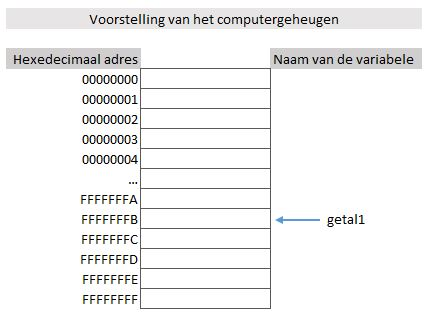
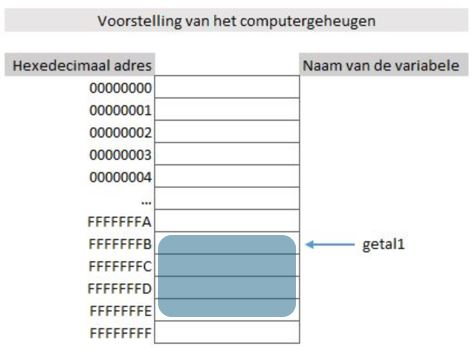
Corrected several errors

Changed region(s): [[0.0, 0.1524, 0.9697, 0.9756], [0.1818, 0.0305, 0.7879, 0.0915]]

diff --git a/modules/basics/_posts/2000-01-03-data_types.md b/modules/basics/_posts/2000-01-03-data_types.md
@@ -1,16 +1,16 @@
 ---
-title: Data Types en Variabelen
+title: Datatypes en Variabelen
 published: true
 ---
-<div class="header1" id="top" markdown = "1"># Data types en variabelen
+<div class="header1" id="top" markdown = "1"># Datatypes en variabelen
 </div>
 
-<div class="header2" markdown = "1">## Wat is een data type?
+<div class="header2" markdown = "1">## Wat is een datatype?
 </div>
 
 Je programma kan gebruik maken van verschillende soorten gegevens. Zo kan je berekeningen maken met getallen, namen gebruiken, enz.
 
-C# maakt gebruik van data types, of gegevenstypes, om met deze verschillende soorten gegevens te werken. Hieronder vind je een overzicht van de gegevenstypes die in de cursus gebruikt zullen worden. In de eerste kolom vind je de naam van het data type, in de tweede kolom zie je het bereik dat dit data type kan hebben, m.a.w. welke waarden er tot dit data type behoren.
+C# maakt gebruik van datatypes, of gegevenstypes, om met deze verschillende soorten gegevens te werken. Hieronder vind je een overzicht van de gegevenstypes die in de cursus gebruikt zullen worden. In de eerste kolom vind je de naam van het datatype, in de tweede kolom zie je het bereik dat dit datatype kan hebben, m.a.w. welke waarden er tot dit datatype behoren.
 
 
 | Keyword       | Bereik   |
@@ -19,7 +19,7 @@ C# maakt gebruik van data types, of gegevenstypes, om met deze verschillende soo
 | int           | gehele getallen van -2147483648 tot 2147483647   |
 | float         | kommagetallen van -3.402823e38 tot 3.402823e38        |
 | double        | kommagetallen van -1.79769313486232e308 tot 1.79769313486232e308       |
-| decimal       | kommagetallen met hoge nauwkeurigheid, vooral gebruikt voor geldbedragen en financiële berekeningen|
+| decimal       | kommagetallen met hoge nauwkeurigheid, vooral gebruikt voor geldbedragen en financiële berekeningen omdat afrondingsfouten kleiner zijn dan bij float en double|
 | char          | één karakter |
 | string        | een tekenreeks  |
 {:.tableBorder}
@@ -27,11 +27,11 @@ C# maakt gebruik van data types, of gegevenstypes, om met deze verschillende soo
 <div class="header2" markdown = "1">## Wat is een variabele?
 </div>
 
-Tijdens het uitvoeren van een programma zal het vaak nodig zijn om gegevens bij te houden in het geheugen van de computer. Enkele voorbeelden hiervan zijn invoer van de gebruiker of het resultaat van een berekening.
+Tijdens het uitvoeren van een programma zal het vaak nodig zijn om gegevens bij te houden in het geheugen van de computer. Enkele voorbeelden hiervan zijn invoer van de gebruiker of het resultaat van een berekening. Een variabele geeft een naam aan een plaats in het geheugen waar een waarde wordt bijgehouden.
 
 In hun binaire of hexadecimale vorm zijn geheugenadressen niet makkelijk om mee te werken. Om op een handige manier een geheugenplaats aan te kunnen spreken, maken we gebruik van een variabele met een **naam**. Door middel van de naam van de variabele kunnen we gegevens plaatsen in de geheugenplaats en de inhoud ervan terug oproepen zonder dat we de binaire of hexadecimale adressering moeten kennen. De inhoud van de variabele kan tijdens het programma gewijzigd worden.
 
-Naast een naam, krijgt een variabele ook een **data type** (= gegevenstype). Dit gegevenstype bepaalt welk type informatie er in de variabele opgeslagen kan worden en welke bewerkingen er met de variabele kunnen gebeuren. We denken hierbij aan tekst, nummerieke gegevens, ... Tevens bepaalt het gekozen gegevenstype hoeveel ruimte er in het geheugen voorzien zal worden om de data op te slaan. Zo zal er voor een kommagetal bijvoorbeeld meer ruimte voorzien worden dan voor een geheel getal.
+Naast een naam, krijgt een variabele ook een **datatype** (= gegevenstype). Dit gegevenstype bepaalt welk type informatie er in de variabele opgeslagen kan worden en welke bewerkingen er met de variabele kunnen gebeuren. We denken hierbij aan tekst, numerieke gegevens, ... Tevens bepaalt het gekozen gegevenstype, bij de eenvoudige gegevenstypes, hoeveel ruimte er in het geheugen voorzien zal worden om de data op te slaan. Zo zal er voor een kommagetal bijvoorbeeld meer ruimte voorzien worden dan voor een geheel getal.
 
 Een grafisch principe van de werking van een variabele vind je in onderstaande figuur:
 
@@ -39,17 +39,15 @@ In deze figuur wordt het geheugen voorgesteld als een opeenvolging van bytes. El
 
 ![image](/img/basics/data_types/voorstellingComputergeheugen.JPG)
 
-Zonder variabele zouden we de geheugenplaats met bijvoorbeeld het hexadecimale adres moeten aanspreken (FFFFFFFB), met een variabele kunnen we diezelfde geheugenplaats aanspreken met de naam getal1. Onnodig te zeggen dat het makkelijker te werken is met de naam dan met het hexadecimale adres.
-
-Volledigheidshalve even nog dit: in de figuur verwijst de variabele getal1 naar 1 geheugenplaats (= 1 byte). Afhankelijk van het data type van de variabele zal deze in realiteit echter meerdere bytes in het geheugen innemen.
+Zonder variabele zouden we de geheugenplaats met bijvoorbeeld het hexadecimale adres moeten aanspreken (FFFFFFFB), met een variabele kunnen we diezelfde geheugenplaats aanspreken met de naam getal1. Onnodig te zeggen dat het makkelijker te werken is met de naam dan met het hexadecimale adres. Zoals je op de figuur ziet, kan een variabele meerdere geheugenplaatsen innemen afhankelijk van zijn datatype. Zo neemt een integer in C# 4 bytes in, zoals je in de figuur kan zien.
 
 <div class="header2" markdown = "1">## Declaratie van een variabele
 </div>
 
-Onder declaratie van een variabele verstaan we het maken van de variabele. Dit houdt in dat er een **naam** en een **data type** aan de variabele toegekend worden.
+Onder declaratie van een variabele verstaan we het maken van de variabele. Dit houdt in dat er een **naam** en een **datatype** aan de variabele toegekend worden.
 
 <div class="note protip">
-<p>Kies telkens een betekenisvolle naam voor je variabele en gebruik het correcte data type.</p>
+<p>Kies telkens een betekenisvolle naam voor je variabele en gebruik het correcte datatype.</p>
 </div>
 
 Niet alle karakters kunnen gebruikt worden om een naam van een variabele samen te stellen. Een geldige variabelenaam voldoet aan de volgende eisen:
@@ -70,7 +68,7 @@ char c;              // Inhoud: 1 karakter, bv. a
 
  ```
 
-Opmerking: Variabelen van hetzelfde data type kan je ook op 1 lijn declareren. Zo declareert onderstaand voorbeeld 3 variabelen van het type integer:
+Opmerking: Variabelen van hetzelfde datatype kan je ook op 1 lijn declareren. Zo declareert onderstaand voorbeeld 3 variabelen van het type integer:
 ```csharp
 int x, y, z;
 ```
@@ -93,7 +91,7 @@ decimal price;
 char c;
 
 // Initialisatie van de bovenstaande variabelen op een gepaste waarde.
-x = 7;
+leeftijd = 17;
 
 name = "voorbeeld";   // Tekst plaats je tussen dubbele aanhalingstekens.
 
@@ -104,6 +102,13 @@ averageSpeed = 52.36; // Let op! Je geeft kommagetallen in met een punt en niet 
 price = 19.95m;       // Gebruik een punt bij het kommagetal. Bij een decimal variabele laat je 
                       // het getal volgen door de letter m.
 c = 'A';              // Het karakter plaats je tussen enkele aanhalingstekens
+```
+
+Opmerking:
+Het is eveneens mogelijk de declaratie en initialisatie van een variabele gelijktijdig uit te voeren zoals je in het voorbeeld hieronder ziet.
+
+```csharp
+int getal = 5;
 ```
 
 ### De variabele gelijk stellen aan invoer van de gebruiker
@@ -123,7 +128,7 @@ number = Convert.ToInt32(Console.ReadLine()); // Let op de omzetting naar int
 
 Gegevens die ingevoerd worden via het toetsenbord hebben steeds het gegevenstype `string`. Om deze invoer in variabelen met een ander gegevenstype te plaatsen is er een omzetting (conversie) nodig. In het bovenstaande voorbeeld wordt de omzetting van string naar int gedaan d.m.v. `Convert.ToInt32()`.
 
-Voor de andere data types bestaan er eveneens methods om deze conversie te doen: `Convert.ToSingle()` (dit doet een conversie naar float), `Convert.ToDouble()`, `Convert.ToDecimal()`, `Convert.ToBoolean()`, `Convert.ToChar()`.
+Voor de andere datatypes bestaan er eveneens methods om deze conversie te doen: `Convert.ToSingle()` (dit doet een conversie naar float), `Convert.ToDouble()`, `Convert.ToDecimal()`, `Convert.ToBoolean()`, `Convert.ToChar()`.
 
 
 ### De variabele gelijk stellen aan het resultaat van een bewerking
@@ -156,7 +161,7 @@ sum = number1 + number2; //number1 kreeg geen waarde en wordt in de bewerking ge
                          //-> foutmelding
 ```
 
-Bovenstaande code geeft de foutmelding: `Use of unassigned local variabel number1`. 
+Bovenstaande code geeft de foutmelding: `Use of unassigned local variable number1`. 
 
 <div class="header2" markdown = "1">## Een variabele op het scherm tonen
 </div>
@@ -202,7 +207,7 @@ Merk op dat er binnen de dubbele aanhalingstekens de nodige spaties voorzien zij
 #### Methode 2: String interpolation (Gebruik van placeholders)
 
 ##### Variant 1:
-Net zoals bij concatenatie geldt hier nog steeds dat de string literal tussen dubbele aanhalingstekens geplaatst wordt en de variabele niet. Bij de opbouw van de uitvoer, wordt er hier echter gebruik gemaakt van placeholders onder de vorm van nummers. Onderstaand voorbeeld toont de werking van deze placehoders aan:
+Net zoals bij concatenatie geldt hier nog steeds dat de string literal tussen dubbele aanhalingstekens geplaatst wordt en de variabele niet. Bij de opbouw van de uitvoer, wordt er hier echter gebruik gemaakt van placeholders onder de vorm van nummers. Onderstaand voorbeeld toont de werking van deze placeholders aan:
 
 ```csharp
 Console.WriteLine("Er zijn {0} honden en {1} katten.", dogCount, catCount);  
@@ -229,16 +234,16 @@ Indien we veronderstellen dat de variabele dogCount de waarde 3 heeft en catCoun
 Er zijn 3 honden en 5 katten.
 ```
 
-<div class="header2" markdown = "1">## Automatische conversie tussen data types
+<div class="header2" markdown = "1">## Automatische conversie tussen datatypes
 </div>
 
-Soms is het nodig om de inhoud van een variabele of invoer van het toetsenbord naar een ander data type om te zetten. We noemen dit **conversie**. In bepaalde gevallen zal C# zelf de conversie tussen gegevenstypes doen. De numerieke gegevenstypes hebben onderstaande hiërarchie:
+Soms is het nodig om de inhoud van een variabele of invoer van het toetsenbord naar een ander datatype om te zetten. We noemen dit **conversie**. In bepaalde gevallen zal C# zelf de conversie tussen gegevenstypes doen. De numerieke gegevenstypes hebben onderstaande hiërarchie:
 
 * double (hoogste)
 * float
 * int (laagste)
 
-Conversie van een lager gegevenstype naar een hoger gebeurt automatisch. Probeer je, zonder bijkomende conversie, een variabele van een lager gegevenstype gelijk te stellen aan een hoger data type dan krijg je een foutmelding.
+Conversie van een lager gegevenstype naar een hoger gebeurt automatisch. Probeer je, zonder bijkomende conversie, een variabele van een lager gegevenstype gelijk te stellen aan een hoger datatype dan krijg je een foutmelding.
 
 Conversie naar decimal zal nooit automatisch gebeuren. Hiervoor is de `Convert.ToDecimal()` functie steeds nodig.
 
@@ -270,10 +275,10 @@ x = y;  // Automatische conversie van double naar int is niet mogelijk
  
 ```
 
-In bovenstaand voorbeeld wordt er geprobeerd om de inhoud van een variabele met hoger gegevenstype te plaatsen in een variabele van een lager data type. Dit geeft volgende foutmelding: `Cannot implicitly convert type 'double' to 'int'. An explicit conversion exists (are you missing a cast?)`
+In bovenstaand voorbeeld wordt er geprobeerd om de inhoud van een variabele met hoger gegevenstype te plaatsen in een variabele van een lager datatype. Dit geeft volgende foutmelding: `Cannot implicitly convert type 'double' to 'int'. An explicit conversion exists (are you missing a cast?)`
 
 Oplossing:
-Indien automatische conversie tussen data types niet lukt maar er toch een omzetting nodig is, kan je gebruik maken van de Convert methods die in vorige punt aangehaald werden. Merk hierbij op dat dit een wijziging van gegevens tot gevolg kan hebben.
+Indien automatische conversie tussen datatypes niet lukt maar er toch een omzetting nodig is, kan je gebruik maken van de Convert methods die in vorige punt aangehaald werden. Merk hierbij op dat dit een wijziging van gegevens tot gevolg kan hebben.
 
 Indien we de Convert method `Convert.ToInt32()` toepassen om de foutmelding bij het vorige voorbeeld te vermijden dan wordt dit:
 
@@ -297,31 +302,31 @@ De waarde van y: 10.99
 De waarde van x: 11
 ```
 
-Zoals je ziet heeft de method `Convert.ToInt32()` de waarde van y eerst afgerond op nul decimalen en daarna in x geplaatst. Dit is noodzakelijk omdat de integer x geen kommagetal kan bevatten. Het afronden gebeurt op een rekenkundige manier.
+Zoals je ziet heeft de method `Convert.ToInt32()` de waarde van y eerst afgerond naar het dichtsbijzijnde gehele getal en daarna in x geplaatst. Dit is noodzakelijk omdat de integer x geen kommagetal kan bevatten. Het afronden gebeurt op een rekenkundige manier.
 
 ### Van char naar string
 Er zijn twee manieren om een `char` om te zetten naar `string`:
 * Conversie d.m.v. `Convert.ToString(a)`: dit zal de `char` omzetten naar een `string`.
 ```csharp
 char teken = 'a';
-string s1 = Convert.ToString(teken) // s1 = "a"
+string s1 = Convert.ToString(teken); // s1 = "a"
 ```
 
 * De functie `.ToString()` toepassen op de variabele van het type `char`.
 ```csharp
 char teken = 'a';
-string s2 = teken.ToString() // s2 = "a"
+string s2 = teken.ToString(); // s2 = "a"
 ```
 
 Let op!
 
-De conversie van een `char` naar een `string` kan soms onverwachte resultaten geven. Dat komt omdat je een `char`, zoals 'a', ook als een cijfer in de ASCII tabel kan zien. Zoals je in onderstaande ASCII tabel kan terugvinden, komt het karakter 'a' bijvoorbeeld overeen met de decimale waarde 97. Het feit dat voor de computer elk karakter eigenlijk een getal is, is iets waarmee je bij bepaalde conversies rekening moet houden.
+De conversie van een `char` naar een `string` kan soms onverwachte resultaten geven. Dat komt omdat je een `char`, zoals 'a', ook als een cijfer in de Unicode tabel kan zien. Zoals je in onderstaande Unicode tabel kan terugvinden, komt het karakter 'a' bijvoorbeeld overeen met de decimale waarde 97. Het feit dat voor de computer elk karakter eigenlijk een getal is, is iets waarmee je bij bepaalde conversies rekening moet houden.
 
 ![image](/img/basics/data_types/ascii_tabel.png)
 
-Onderstaand voorbeeld toont aan wat er in dat geval kan fout lopen: In het voorbeeld zit de letter a in de `char` variabele teken. We willen nu a.h.v. de variabele teken een nieuwe variabele van het type `string` maken die 2 maal de letter a bevat, dus 2 maal de `char` variabele teken. We kunnen in C# variabelen van het type `char` of `string` 'optellen' met de het + teken. Maar hier hebben we 2 mogelijkheden:
+Onderstaand voorbeeld toont aan wat er in dat geval kan fout lopen: In het voorbeeld zit de letter a in de `char` variabele teken. We willen nu a.h.v. de variabele teken een nieuwe variabele van het type `string` maken die 2 maal de letter a bevat, dus 2 maal de `char` variabele teken. We kunnen in C# variabelen van het type `char` of `string` 'optellen' met het + teken. Maar hier hebben we 2 mogelijkheden:
 
-* We tellen eerst  de `char` variabele a bij zichzelf op en doen dan de conversie naar `string`. Zoals we reeds zagen heeft de letter a in de ASCII tabel de decimale waarde 97. Als we dus de `char` variabele bij zichzelf optellen, dan bekomen we de waarde 194 (97 + 97). Waarden groter dan 127 (laatste decimale waarde uit de ASCII tabel), worden door C# sowieso beschouwd als `integer`. Op deze `integer` de conversie naar `string` toepassen zal het getal zelf in `string` formaat als resultaat geven. In het voorbeeld wordt dus "194" in `string` formaat als resultaat van de `ToString` functie gegeven en niet "aa" zoals we zouden verwachten.
+* We tellen eerst  de `char` variabele a bij zichzelf op en doen dan de conversie naar `string`. Zoals we reeds zagen heeft de letter a in de ASCII tabel de decimale waarde 97. Als we dus de `char` variabele bij zichzelf optellen, dan bekomen we de waarde 194 (97 + 97). Wanneer twee variabelen van het type `char` worden opgeteld, zet C# beide tekens immers eerst om naar hun numerieke Unicode-code. Het resultaat van de optelling is dus een `integer`. Op deze `integer` de conversie naar `string` toepassen zal het getal zelf in `string` formaat als resultaat geven. In het voorbeeld wordt dus "194" in `string` formaat als resultaat van de `ToString` functie gegeven en niet "aa" zoals we zouden verwachten.
 ```csharp
 char teken = 'a';
 string s3 = Convert.ToString(teken + teken); // s3 = "194"
@@ -351,7 +356,7 @@ public static int calcSum(int a, int b)
 }
 ```
 
-Als je een progamma start, wordt steeds de functie `Main` gestart. Deze functie bevat de instructies die uitgevoerd zullen worden. Vanuit `Main` kan je de functie `calcSum`als volgt aanroepen:
+Als je een programma start, wordt steeds de functie `Main` gestart. Deze functie bevat de instructies die uitgevoerd zullen worden. Vanuit `Main` kan je de functie `calcSum` als volgt aanroepen:
 
 ```csharp
 static void Main(string[] args)
